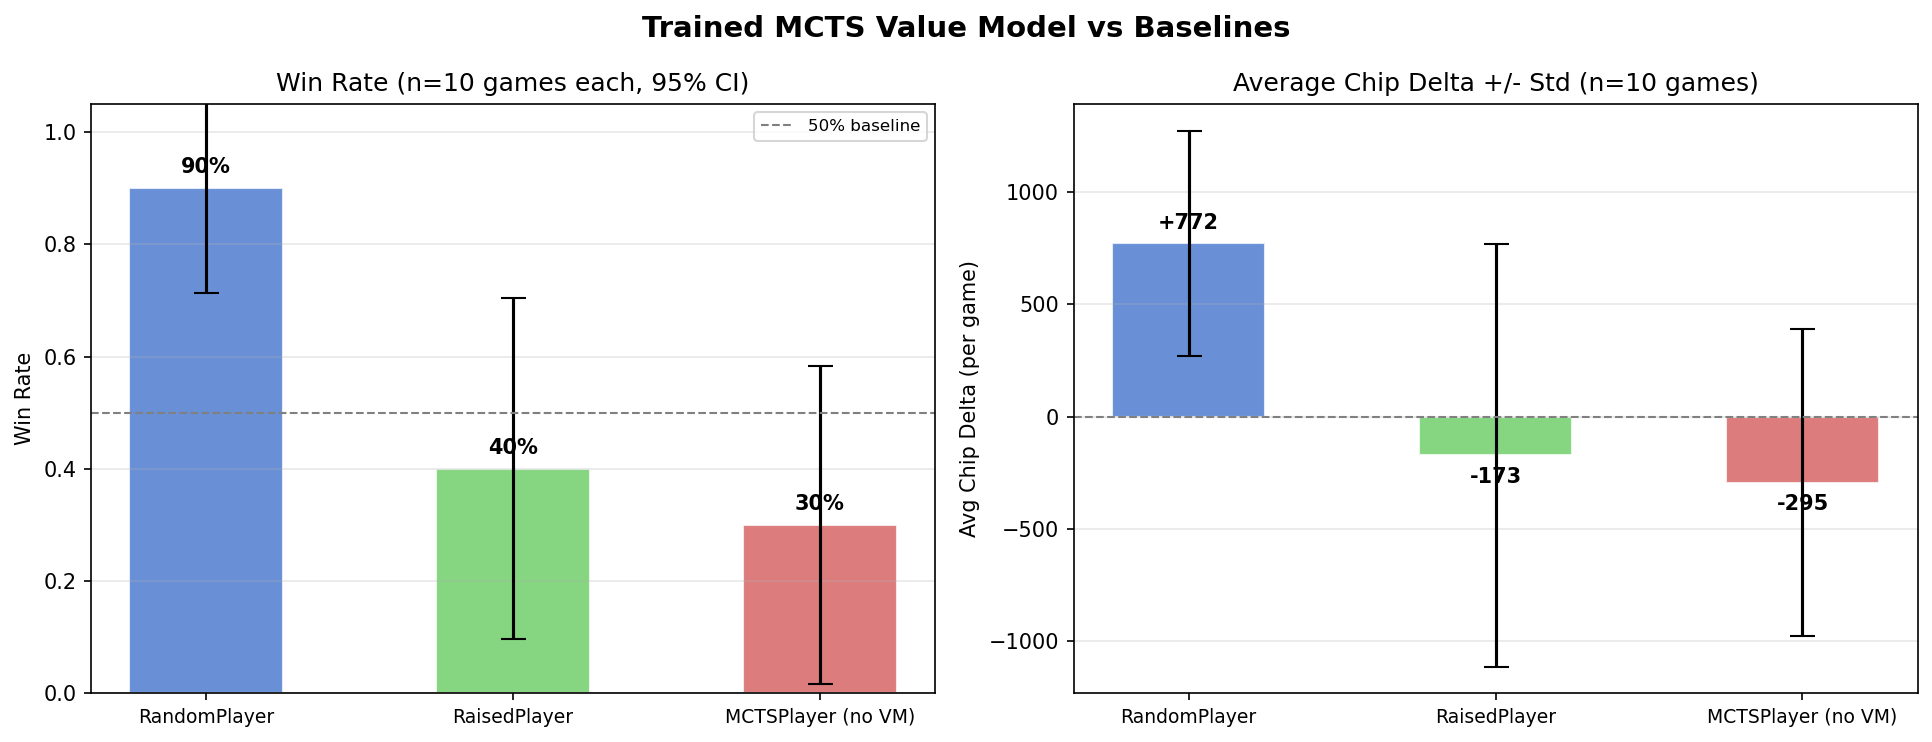
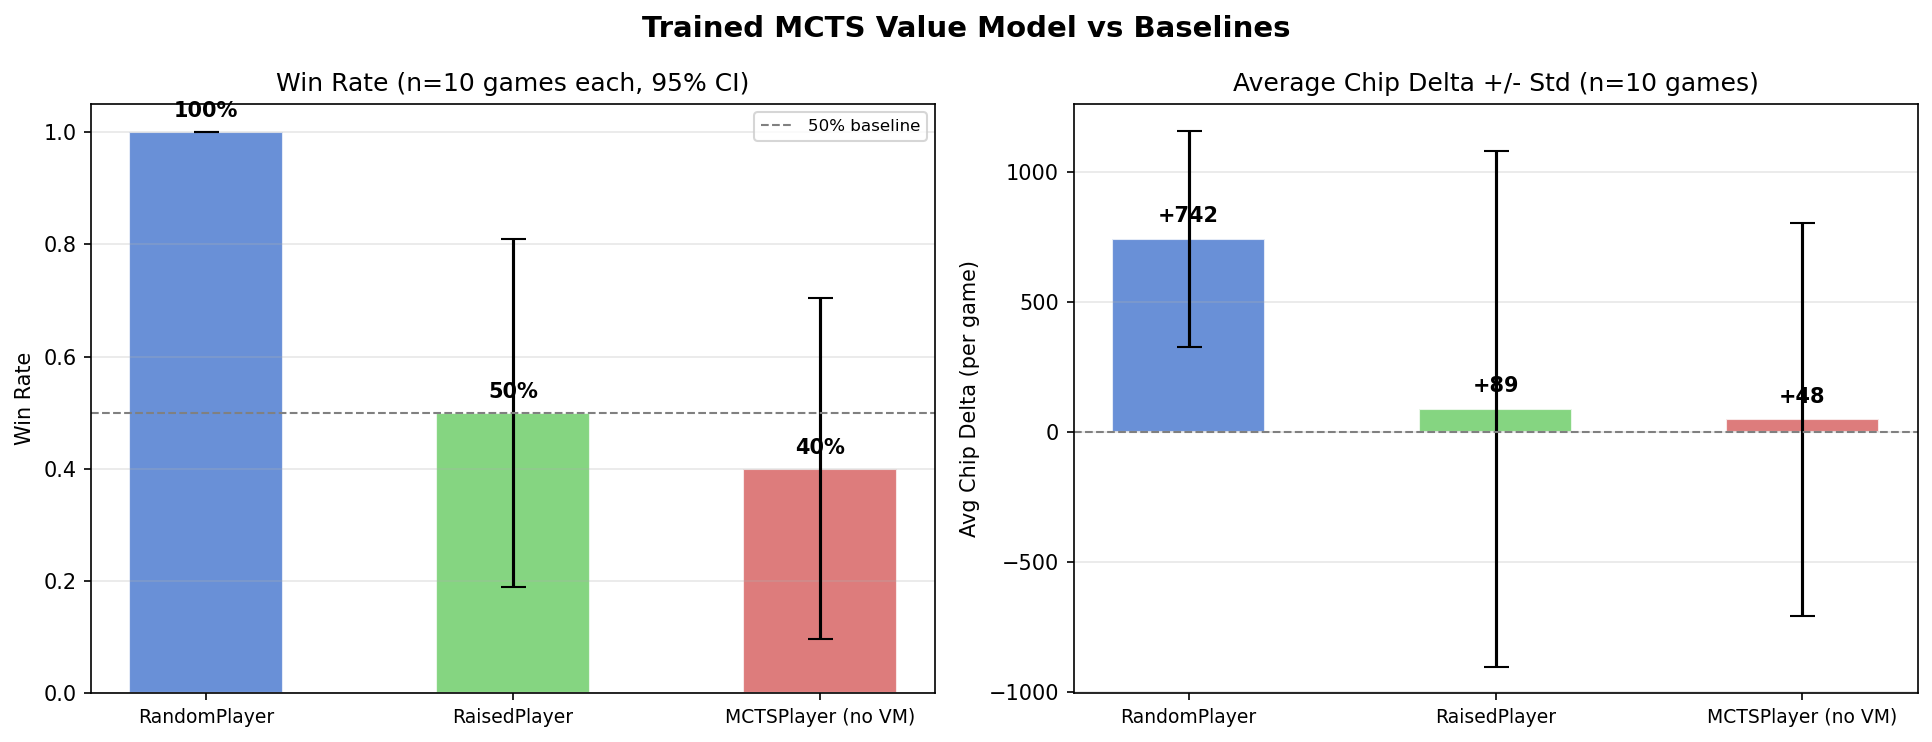
fixed a bit more, had ot move stuff around for upload to tournament site

diff --git a/build_submission.py b/build_submission.py
@@ -1,0 +1,90 @@
+"""
+Build the tournament submission ZIP.
+
+Usage (from repo root):
+    python build_submission.py
+
+Output: ../AI-Poker-Agent-submission.zip
+
+Structure produced:
+  submission/
+    custom_player.py
+    mcts_player.py
+    submission_value_model.json
+    mcts/           <- portal sees this as a local package
+    heuristics/     <- portal sees this as a local package
+  pypokerengine/    <- whitelisted by portal
+  randomplayer.py
+  raise_player.py
+"""
+
+import sys
+import zipfile
+from pathlib import Path
+
+ROOT = Path(__file__).resolve().parent
+OUT  = ROOT.parent / "AI-Poker-Agent-submission.zip"
+
+SKIP = {"__pycache__", ".git", ".claude", ".DS_Store", ".mypy_cache", "__pycache__"}
+
+
+def add_tree(zf: zipfile.ZipFile, src: Path, zip_prefix: str) -> int:
+    count = 0
+    for path in sorted(src.rglob("*")):
+        if any(part in SKIP for part in path.parts):
+            continue
+        if path.is_file():
+            arcname = zip_prefix + "/" + path.relative_to(src).as_posix()
+            zf.write(path, arcname)
+            count += 1
+    return count
+
+
+def build():
+    with zipfile.ZipFile(OUT, "w", zipfile.ZIP_DEFLATED) as zf:
+        # submission/ — portal only whitelists packages found here
+        n  = add_tree(zf, ROOT / "submission",   "submission")
+        n += add_tree(zf, ROOT / "mcts",         "submission/mcts")
+        n += add_tree(zf, ROOT / "heuristics",   "submission/heuristics")
+        zf.write(ROOT / "mcts_player.py", "submission/mcts_player.py")
+        n += 1
+
+        # pypokerengine at zip root (portal whitelists it by name)
+        n += add_tree(zf, ROOT / "pypokerengine", "pypokerengine")
+
+        # Optional: baseline players (used in benchmarks, not the submission itself)
+        for fname in ("randomplayer.py", "raise_player.py"):
+            p = ROOT / fname
+            if p.exists():
+                zf.write(p, fname)
+                n += 1
+
+    # Verify
+    with zipfile.ZipFile(OUT) as z:
+        names = sorted(z.namelist())
+    tops = sorted({n.split("/")[0] for n in names})
+    sub_pkgs = sorted({
+        "/".join(n.split("/")[:2])
+        for n in names
+        if n.startswith("submission/") and len(n.split("/")) > 2
+    })
+    print(f"Written {n} files to {OUT}")
+    print(f"Top-level entries : {tops}")
+    print(f"submission/ packages: {sub_pkgs}")
+
+    missing = []
+    for required in ["submission/custom_player.py",
+                     "submission/mcts_player.py",
+                     "submission/submission_value_model.json",
+                     "submission/mcts/__init__.py",
+                     "submission/heuristics/__init__.py"]:
+        if required not in names:
+            missing.append(required)
+    if missing:
+        print(f"\nWARNING: missing expected entries: {missing}")
+    else:
+        print("All required entries present.")
+
+
+if __name__ == "__main__":
+    build()

diff --git a/submission/custom_player.py b/submission/custom_player.py
@@ -1,13 +1,20 @@
 """
 Course submission entry: the portal expects submission/custom_player.py in the zip.
 
-Zip layout (example):
-  submission/custom_player.py   <-- this file
-  mcts_player.py
-  offline_learning/...
-  mcts/...
-  heuristics/...
-  pypokerengine/...
+Zip layout:
+  submission/
+    custom_player.py          <-- this file
+    submission_value_model.json
+    mcts_player.py
+    mcts/
+    heuristics/
+  pypokerengine/
+  randomplayer.py
+  raise_player.py
+
+All custom packages live inside submission/ so the portal's import checker
+recognises them as local helper modules. We add submission/ to sys.path so
+existing import statements (e.g. "from mcts.search import ...") keep working.
 """
 
 from __future__ import annotations
@@ -15,8 +22,12 @@ from __future__ import annotations
 import sys
 from pathlib import Path
 
-# Repo root is parent of submission/
-_ROOT = Path(__file__).resolve().parent.parent
+_SUBMISSION = Path(__file__).resolve().parent
+# submission/ contains mcts/, heuristics/, mcts_player.py
+if str(_SUBMISSION) not in sys.path:
+    sys.path.insert(0, str(_SUBMISSION))
+# Also add the zip root so pypokerengine is importable
+_ROOT = _SUBMISSION.parent
 if str(_ROOT) not in sys.path:
     sys.path.insert(0, str(_ROOT))
 
@@ -33,9 +44,13 @@ class CustomPlayer(MCTSPlayer):
 
     def __init__(self, **kwargs):
         if not kwargs:
-            submission = _ROOT / "offline_learning" / "models" / "submission_value_model.json"
+            # Model lives next to this file in submission/
+            submission = Path(__file__).resolve().parent / "submission_value_model.json"
+            if not submission.is_file():
+                # Fallback: legacy path from repo root
+                submission = _ROOT / "offline_learning" / "models" / "submission_value_model.json"
             if submission.is_file():
-                kwargs = {"value_model_path": str(submission.resolve())}
+                kwargs = {"value_model_path": str(submission)}
         super().__init__(**kwargs)
 
 

diff --git a/mcts/features.py b/mcts/features.py
@@ -1,8 +1,8 @@
 """
 Convert a PokerState to a flat feature dict for the value model.
 
-Kept in mcts/ so the tournament runtime only needs mcts/, heuristics/, and
-pypokerengine/ — no dependency on the offline_learning training package.
+Only depends on pypokerengine (whitelisted by the tournament portal) and the
+Python standard library — no heuristics or offline_learning imports needed.
 """
 
 from __future__ import annotations
@@ -15,17 +15,27 @@ _WIN_RATE_SIMS = 50
 
 _COMMUNITY_STREET = {0: "preflop", 3: "flop", 4: "turn", 5: "river"}
 
+_HAND_TO_SCORE = {
+    "HIGHCARD": 0, "ONEPAIR": 1, "TWOPAIR": 2, "THREECARD": 3,
+    "STRAIGHT": 4, "FLASH": 5, "FULLHOUSE": 6, "FOURCARD": 7, "STRAIGHTFLASH": 8,
+}
+
 
 @lru_cache(maxsize=2048)
 def _hand_strength(hole_card: tuple, community_card: tuple, street: str) -> tuple:
     """Return (win_rate, hand_strength_norm, hand_group_norm). Cached by key."""
-    from heuristics.abstraction_heuristics import group_hand_strength
-    g = group_hand_strength(
-        list(hole_card),
-        {"community_card": list(community_card), "street": street},
-        win_rate_simulations=_WIN_RATE_SIMS,
-    )
-    return g.win_rate, g.hand_score / 8.0, g.group_strength / 5.0
+    from pypokerengine.utils.card_utils import estimate_hole_card_win_rate, gen_cards
+    from pypokerengine.engine.hand_evaluator import HandEvaluator
+
+    hole = gen_cards(list(hole_card))
+    community = gen_cards(list(community_card)) if community_card else []
+
+    win_rate = estimate_hole_card_win_rate(_WIN_RATE_SIMS, 2, hole, community)
+    hand_name = HandEvaluator.gen_hand_rank_info(hole, community)["hand"]["strength"]
+    hand_score = _HAND_TO_SCORE.get(hand_name, 0)
+    group_strength = next((g for t, g in [(0.80, 5), (0.65, 4), (0.50, 3), (0.35, 2)] if win_rate >= t), 1)
+
+    return win_rate, hand_score / 8.0, group_strength / 5.0
 
 
 def state_to_features(state: PokerState) -> dict[str, float]:

diff --git a/mcts_player.py b/mcts_player.py
@@ -25,7 +25,7 @@ class MCTSPlayer(BasePokerPlayer):
         self._belief_model = OpponentBeliefModel()
         self._value_model = None
         if value_model_path:
-            from offline_learning.value_model import load_value_model
+            from mcts.value_model import load_value_model
 
             self._value_model = load_value_model(value_model_path)
 
@@ -53,7 +53,7 @@ class MCTSPlayer(BasePokerPlayer):
         return best_action
 
     def _estimate_value(self, state):
-        from offline_learning.features import state_to_features
+        from mcts.features import state_to_features
 
         return self._value_model.predict(state_to_features(state))
 
@@ -81,7 +81,17 @@ def setup_ai():
     Competition / harness entry: no-arg factory.
     Ship a checkpoint next to the repo layout below; if missing, MCTS runs without a learned value head.
     """
-    submission = Path(__file__).resolve().parent / "offline_learning" / "models" / "submission_value_model.json"
+    here = Path(__file__).resolve().parent
+    # In the tournament zip, mcts_player.py lives inside submission/ next to the model.
+    # In the dev repo, submission/ is a sibling directory.
+    for candidate in [
+        here / "submission_value_model.json",                          # zip: submission/
+        here / "submission" / "submission_value_model.json",           # dev repo
+        here / "offline_learning" / "models" / "submission_value_model.json",  # legacy
+    ]:
+        submission = candidate
+        if submission.is_file():
+            break
     if submission.is_file():
         return MCTSPlayer(value_model_path=str(submission.resolve()))
     return MCTSPlayer()

diff --git a/mcts/value_model.py b/mcts/value_model.py
@@ -29,12 +29,7 @@ def load_value_model(path: str):
     if model_type == "linear":
         weights = {k: float(v) for k, v in data.items() if k != "model_type"}
         return LinearValueModel(weights)
-    # MLP / transformer: fall back to the full offline_learning loader if available.
-    try:
-        from offline_learning.value_model import load_value_model as _full_load
-        return _full_load(path)
-    except ImportError:
-        raise ValueError(
-            f"Model type '{model_type}' requires offline_learning package. "
-            "Use a linear checkpoint for tournament play."
-        )
+    raise ValueError(
+        f"Model type '{model_type}' is not supported in the tournament runtime. "
+        "Re-save the checkpoint as a linear model."
+    )

diff --git a/testperf.py b/testperf.py
@@ -5,6 +5,7 @@ setup_config = game.setup_config
 start_poker = game.start_poker
 import time
 from argparse import ArgumentParser
+import signal
 
 
 """ =========== *Remember to import your agent!!! =========== """
